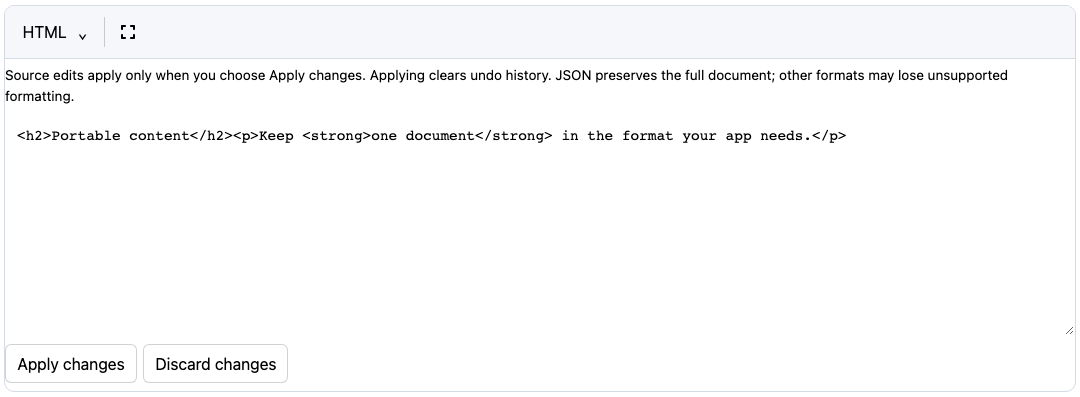
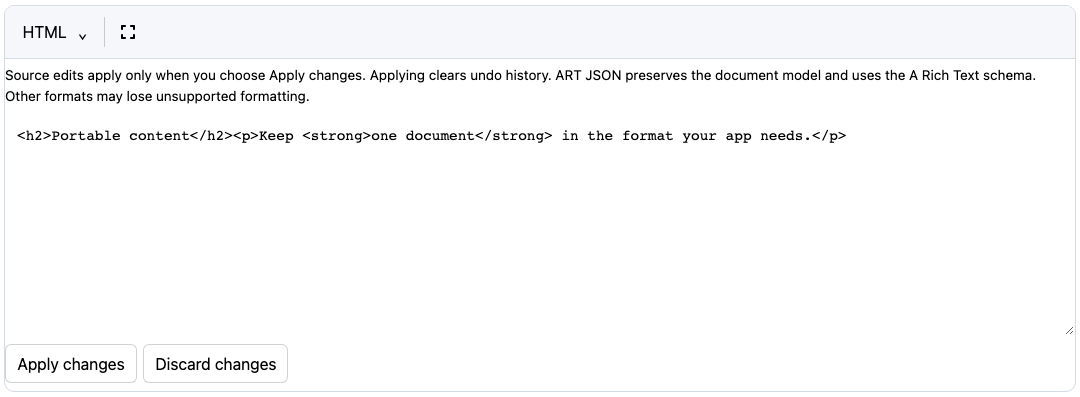
docs: clarify format standards and propose conversion profiles (#78)

Changed region(s): [[0.0, 0.2116, 0.3056, 0.272], [0.5194, 0.1511, 0.9778, 0.2116]]

diff --git a/examples/showcase/index.html b/examples/showcase/index.html
@@ -15,5 +15,6 @@
 <p id="preset-note" aria-live="polite">Default: a framed editor with a tinted toolbar and comfortable spacing.</p>
 <form id="fixture-form"><a-rich-text-shell><a-rich-text-toolbar for="editor"></a-rich-text-toolbar><a-rich-text id="editor" name="body" format="html" views="visual html markdown json text" aria-label="Document" placeholder="Write something…"></a-rich-text></a-rich-text-shell><button type="submit">Submit</button></form><output id="submitted" aria-live="polite"></output>
 <details><summary>Integration code</summary><pre id="integration"></pre><p>Appearance, allowed tools and source views are independent attributes. Custom buttons can call the same editor API. See the linked examples for CSS variables, Shadow Parts and Vue integration.</p></details>
+<details><summary>Which document format should I use?</summary><ul><li><strong>HTML:</strong> supported web markup for publishing and exchange; arbitrary HTML/CSS is not preserved.</li><li><strong>Markdown:</strong> a supported subset for text workflows, with tables and tasks; not full CommonMark/GFM conformance.</li><li><strong>ART JSON:</strong> the A Rich Text document model for saving and re-editing. Valid JSON does not automatically mean a compatible rich-text document.</li><li><strong>Plain text:</strong> content without formatting or document structure.</li></ul><p>The json API value means ART JSON. Quill Delta and Editor.js JSON require conversion adapters.</p></details>
 <footer>HTML, Markdown, ART JSON and plain text share one document model. Inline mode is a contextual toolbar; block menus and slash commands are planned separately.</footer>
 <script type="module" src="./showcase.js"></script></main></html>

diff --git a/packages/web-component/src/index.ts b/packages/web-component/src/index.ts
@@ -256,7 +256,7 @@ function getTemplate(): HTMLTemplateElement {
     <div part="view-switcher" hidden><a-rich-text-select label="Document format" exportparts="trigger:view-trigger,menu:view-menu"></a-rich-text-select></div>
     <div part="editor" role="textbox" aria-multiline="true"></div>
     <section part="source-panel" hidden>
-      <p part="source-note" id="source-note">Source edits apply only when you choose Apply changes. Applying clears undo history. JSON preserves the full document; other formats may lose unsupported formatting.</p>
+      <p part="source-note" id="source-note">Source edits apply only when you choose Apply changes. Applying clears undo history. ART JSON preserves the document model and uses the A Rich Text schema. Other formats may lose unsupported formatting.</p>
       <textarea part="source" aria-label="Document source" aria-describedby="source-note source-error" spellcheck="false"></textarea>
       <div part="source-actions">
         <button part="source-apply-button" type="button" data-source-action="apply">Apply changes</button>
@@ -488,7 +488,7 @@ export class ARichTextElement extends HTMLElementBase {
     if (select.dataset.views !== signature) {
       select.replaceChildren(...this.views.map(view => {
         const option = this.ownerDocument.createElement('option'); option.value = view;
-        option.textContent = { visual: 'Editor', html: 'HTML', markdown: 'Markdown', json: 'JSON', text: 'Text' }[view];
+        option.textContent = { visual: 'Editor', html: 'HTML', markdown: 'Markdown', json: 'ART JSON', text: 'Text' }[view];
         return option;
       }));
       select.dataset.views = signature;

diff --git a/tests/browser/configuration.spec.ts b/tests/browser/configuration.spec.ts
@@ -81,7 +81,7 @@ test('source views preserve untouched data and explicitly apply HTML and Markdow
 test('invalid JSON retains the draft, prevents stale form submission and can be discarded', async ({ page }) => {
   const editor = page.locator('#editor');
   await editor.evaluate((node: ARichTextElement) => node.setText('Saved'));
-  await chooseView(page, 'JSON');
+  await chooseView(page, 'ART JSON');
   const source = page.getByRole('textbox', { name: 'JSON document source' });
   await source.fill('{not valid');
   expect(await editor.evaluate((node: ARichTextElement) => node.checkValidity())).toBe(false);
@@ -102,7 +102,7 @@ test('view attributes update live and readonly source remains inspectable', asyn
   const editor = page.locator('#editor');
   await editor.evaluate((node: ARichTextElement) => { node.views = 'json'; node.readOnly = true; });
   await expect(page.locator('a-rich-text-toolbar a-rich-text-select[data-role=view] option[value=html]')).toHaveCount(0);
-  await chooseView(page, 'JSON');
+  await chooseView(page, 'ART JSON');
   await expect(page.getByRole('textbox', { name: 'JSON document source' })).toHaveAttribute('readonly', '');
   const toolbar = page.getByRole('toolbar', { name: 'Text formatting' });
   await expect(toolbar.getByRole('button')).toHaveCount(1);

diff --git a/tests/browser/find-replace.spec.ts b/tests/browser/find-replace.spec.ts
@@ -71,7 +71,7 @@ test('whole-word options, readonly inspection, source views and tool locks are r
   await expect(panel.getByRole('textbox', { name: 'Replace with', exact: true })).toBeHidden();
   await editor.evaluate(node => node.removeAttribute('readonly'));
   await expect(panel.getByRole('textbox', { name: 'Replace with', exact: true })).toBeVisible();
-  await chooseView(page, 'JSON');
+  await chooseView(page, 'ART JSON');
   await expect(panel).not.toBeVisible();
   await expect(page.getByRole('button', panelName)).toBeHidden();
   expect(await editor.evaluate(node => (node as ARichTextElement).openFindReplace())).toBe(false);

diff --git a/tests/browser/showcase.spec.ts b/tests/browser/showcase.spec.ts
@@ -94,6 +94,6 @@ test('format dropdown stays usable in modal focus mode and Escape dismisses only
   await page.keyboard.press('Escape');
   await expect(page.getByRole('listbox', { name: 'Document format' })).toBeHidden();
   await expect(modal).toBeVisible();
-  await chooseView(page, 'JSON');
+  await chooseView(page, 'ART JSON');
   expect(await page.getByRole('textbox', { name: 'JSON document source' }).inputValue()).toContain('Inside the modal');
 });

diff --git a/docs/proposals/format-profiles.md b/docs/proposals/format-profiles.md
@@ -1,0 +1,79 @@
+# Proposed format profiles
+
+Status: proposal, not implemented or a committed public API. Follow-up to
+[the conversion contract](../conversion.md) and [issue #77](https://github.com/powerpuff-kitty/a-rich-text/issues/77), with schema work in issue #2. This separates
+recommendations from the editor's current `format`, `view` and `views` API.
+
+## Terms and examples
+
+There is no fixed total of rich-text JSON schemas, Markdown dialects or HTML
+application profiles. Applications can define more. Useful examples include:
+
+| Family | What varies | Examples, not a complete inventory |
+| --- | --- | --- |
+| JSON | Document schema and extension/node set | ART v1; [Quill Delta](https://quilljs.com/docs/delta); [Editor.js tool blocks](https://editorjs.io/saving-data/); [Slate's application-defined nodes](https://docs.slatejs.org/concepts/10-serializing) |
+| HTML | Syntax, supported vocabulary, packaging and styles | The HTML standard distinguishes [HTML and XML serialization](https://html.spec.whatwg.org/multipage/introduction.html#html-vs-xhtml); a semantic fragment and a complete HTML page also differ in packaging. Email-oriented or application-allowlisted markup is a usage profile, not a separate universal HTML standard. |
+| Markdown | Parsing rules and extensions | [CommonMark](https://spec.commonmark.org/), [GFM](https://github.github.com/gfm/), [Pandoc Markdown](https://pandoc.org/MANUAL.html#pandocs-markdown). [MDX](https://mdxjs.com/docs/what-is-mdx/) additionally supports JSX/JavaScript and needs a separate integration rather than treating it as ordinary Markdown. |
+
+A family name alone does not specify compatible content. Even two editors using
+the same JSON ecosystem may enable different nodes or plugins.
+
+## Recommended behavior
+
+1. Keep ART as the internal model. Profiles convert at import/export boundaries;
+   changing a menu selection does not replace the engine or reimport the document.
+2. Preserve current defaults: ART v1 JSON, supported semantic HTML fragments,
+   the current ART Markdown subset and plain text. Do not relabel that Markdown
+   subset CommonMark/GFM without conformance evidence.
+3. Developers select the default output profile, the initial source profile and
+   the profiles users may choose. Keep source inspection independent of the native
+   form output format, as it is today.
+4. Offer built-ins plus optional developer-registered profiles. A profile must
+   have an installed converter before it can appear in the dropdown. Attributes
+   select registered IDs; they do not load scripts or execute converter strings.
+5. Group menu entries by family only when there are multiple configured profiles:
+   for example JSON → ART v1 / Article JSON; Markdown → Current subset / GFM.
+   Keep the existing flat menu for the default configuration.
+6. Each profile declares its family, stable ID/version, label and supported import/
+   export directions. Export-only profiles permit inspection/download but cannot
+   apply edited source. Import-only profiles belong in an import action.
+7. Conversion reports unsupported features and losses before an import is applied.
+   Validate the resulting ART document, then replace it atomically. Errors keep the
+   draft and canonical document unchanged. Reuse the existing Apply/Discard and
+   native-form validity contract; a pending draft cannot silently change profiles.
+8. Register optional converters after explicitly importing their modules. Do not
+   add every external editor/parser to the base bundle. Treat HTML as untrusted
+   input, and do not execute imported MDX or arbitrary markup.
+
+## Illustrative API shape
+
+These names are illustrative and **do not work in the current release**:
+
+```html
+<a-rich-text
+  format="json"
+  profile="art-v1"
+  views="visual html markdown json"
+  profiles="semantic-html art-markdown art-v1 acme:article-v1">
+</a-rich-text>
+```
+
+A proposed `registerFormatProfile()` registration would supply the ID, family,
+label and `import`/`export` functions. Its import result must validate as ART;
+its export result must be a serialized string, with structured loss diagnostics.
+The profile's JSON schema/version belongs in its own contract. JSON Schema alone
+cannot perform the conversion.
+
+Omitting new profile options must retain existing behavior. Explicit unknown or
+family-mismatched IDs should produce configuration errors, not silently fall back
+to a different storage format. Registration must reject duplicate IDs; disposal
+must not discard a dirty draft. Exact method/attribute names, diagnostic types,
+registry scope and dynamic-removal behavior need API review before implementation.
+
+## Verification before shipping
+
+Round-trip and lossy-conversion fixtures per adapter; malformed input and foreign
+schema rejection; source-draft preservation; native form output; profile/default
+changes; custom profile registration/removal; and keyboard/viewport tests for the
+grouped menu. Standards claims require the named dialect's upstream conformance
+fixtures. Profiles and adapters should state supported extensions explicitly.

diff --git a/docs/conversion.md b/docs/conversion.md
@@ -2,6 +2,75 @@
 
 A Rich Text uses **ART JSON** as its canonical structured document model. HTML, Markdown and plain text are portable representations of that model, not competing internal states.
 
+## Standards and interoperability
+
+The syntax of a format and the document structure stored in it are separate
+contracts. A parser accepting a file does not guarantee that all its formatting
+or metadata can be retained.
+
+| Format | External specification | This repository's contract |
+| --- | --- | --- |
+| HTML | [WHATWG HTML Living Standard](https://html.spec.whatwg.org/multipage/introduction.html) | Supported semantic HTML fragments mapped to ART; not arbitrary HTML/CSS or full-page round trips |
+| Markdown | [CommonMark](https://spec.commonmark.org/) and the [GFM dialect](https://github.github.com/gfm/) specify parsing rules | A custom supported subset, including pipe tables, tasks and strike; no claim of full CommonMark/GFM conformance |
+| ART JSON | [JSON syntax, RFC 8259](https://www.rfc-editor.org/rfc/rfc8259) | Standard JSON syntax containing the project's versioned ART document structure |
+| Plain text | Text without rich-document semantics | Text extraction/import; styles, links as marks and table structure are lost; choose UTF-8 when writing files or sending bytes |
+
+HTML is suitable for publishing supported content. Markdown is useful for text
+workflows that accept its reduced fidelity. Save ART JSON to retain the supported
+document model for re-editing. Merely inspecting a source view is lossless; applying
+edited HTML/Markdown/text reconstructs the document from that representation.
+
+### Is there a standard rich-text JSON format?
+
+JSON standardizes objects, arrays, strings, numbers, booleans and null. It does
+not assign meaning to keys such as `content`, `blocks` or `ops`. There is no single
+universal rich-text JSON interchange schema shared by these editors:
+
+- [Quill Delta](https://quilljs.com/docs/delta) represents content and changes using operations.
+- [Editor.js output](https://editorjs.io/saving-data/) uses its own block/tool data structure.
+- ART JSON uses the `ARTDocument` contract implemented by this repository.
+
+For example, this is an ART v1 document:
+
+```json
+{
+  "type": "doc",
+  "version": 1,
+  "content": [
+    { "type": "paragraph", "content": [{ "type": "text", "text": "Hello" }] }
+  ]
+}
+```
+
+`setJSON()` validates ART, not any arbitrary JSON document. The format/view API
+value remains `json`; the menu labels it **ART JSON** to make this explicit.
+Quill Delta and Editor.js JSON are not accepted directly. Dedicated adapters would
+need to map supported nodes/marks and report losses; none are bundled currently.
+HTML can be an exchange bridge when both applications support the relevant content,
+but it cannot promise preservation of editor-specific features.
+
+ART JSON stores document content. It does not bundle the editor's undo stack,
+selection, appearance or separately managed comments/collaboration state.
+`version: 1` identifies the ART format version; unknown versions are rejected.
+The migration API remains open in [issue #2](https://github.com/powerpuff-kitty/a-rich-text/issues/2).
+
+For developer defaults and custom converter selection, see the
+[format-profile proposal](proposals/format-profiles.md). That registry is not
+implemented; the existing format/view attributes retain their current behavior.
+
+### What about JSON Schema?
+
+[JSON Schema](https://json-schema.org/understanding-json-schema/about) is a
+specification for describing and validating JSON structures. It can describe ART,
+Delta or another application's structure; it does not make those structures
+interchangeable and does not define a rich-text format itself.
+
+Today ART has TypeScript types and runtime validation in
+[core](../packages/core/src/index.ts). A distributable JSON Schema document is not
+yet included. Publishing one, with parity checks against the runtime validator,
+is follow-up work under #2. Semantic checks such as rectangular table coverage
+still need code even with a JSON Schema artifact.
+
 ## Packages
 
 | Package | Import | Export | Runtime |

diff --git a/docs/editor-configuration.md b/docs/editor-configuration.md
@@ -229,10 +229,12 @@ view changes.
 
 ## Format compatibility
 
-- **ART JSON**: canonical, validated, lossless representation of supported ART.
+- **ART JSON**: canonical, validated representation of supported ART. `json` means
+  this project’s schema, not arbitrary JSON or another editor’s JSON. The dropdown
+  explicitly labels it ART JSON.
 - **HTML**: import/export for the supported block/mark model; unsafe or unsupported
   markup is removed or unwrapped.
-- **Markdown**: deterministic supported subset; underline uses `<u>`, and table
+- **Markdown**: deterministic supported subset, not full CommonMark/GFM compliance; underline uses `<u>`, and table
   spans cannot be represented faithfully.
 - **Text**: deliberately drops formatting and structure when applied.
 

diff --git a/packages/markdown/README.md b/packages/markdown/README.md
@@ -7,3 +7,7 @@ ES modules with TypeScript declarations. MIT licensed. No mandatory hosted servi
 This package is part of [A Rich Text](https://github.com/powerpuff-kitty/a-rich-text).
 See the repository's [integration guide](https://github.com/powerpuff-kitty/a-rich-text/blob/main/docs/getting-started.md) for local installation and the standard editor.
 Exported API declarations are included in `dist/`. Version 0.0.0 is a development snapshot; it is not a stable public release.
+
+The converter implements a supported Markdown subset, including tables and tasks.
+It is not a fully conforming CommonMark/GFM parser. See the repository
+[conversion contract](../../docs/conversion.md#standards-and-interoperability) for fidelity limits.
